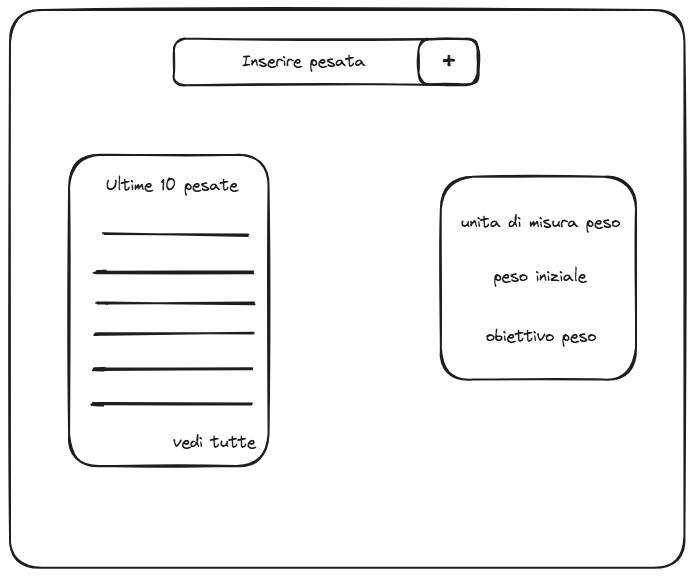
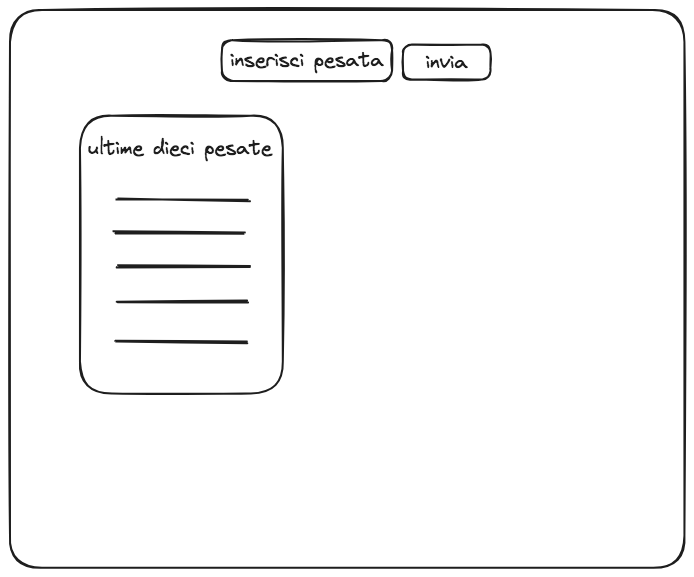
Correzione readme. Rimozione informazioni

diff --git a/README.md b/README.md
@@ -9,7 +9,7 @@ Se viene ricercata la root ci possono essere due risposte differenti:
 
 ![Login](doc/login.png)
 
-La pagina dell'homepage è composta da un form in cui inserire la nuova pesata, una lista delle ultime 10 pesate inserite e un box in cui saranno segnate le informazioni personali dell'utente.
+La pagina dell'homepage è composta da un form in cui inserire la nuova pesata, una lista delle ultime 10 pesate inserite 
 
 La lista delle ultime 10 pesate avrà la possibilità di mostrare anche tutto l'archivio delle pesate caricate cliccando su un link "vedi tutte".
 La pagina a cui si verrà redirezionati conterrà la lista di tutte le pesate e una paginazione che permetterà in base al numero di pesate caricate di cambiare pagina.
